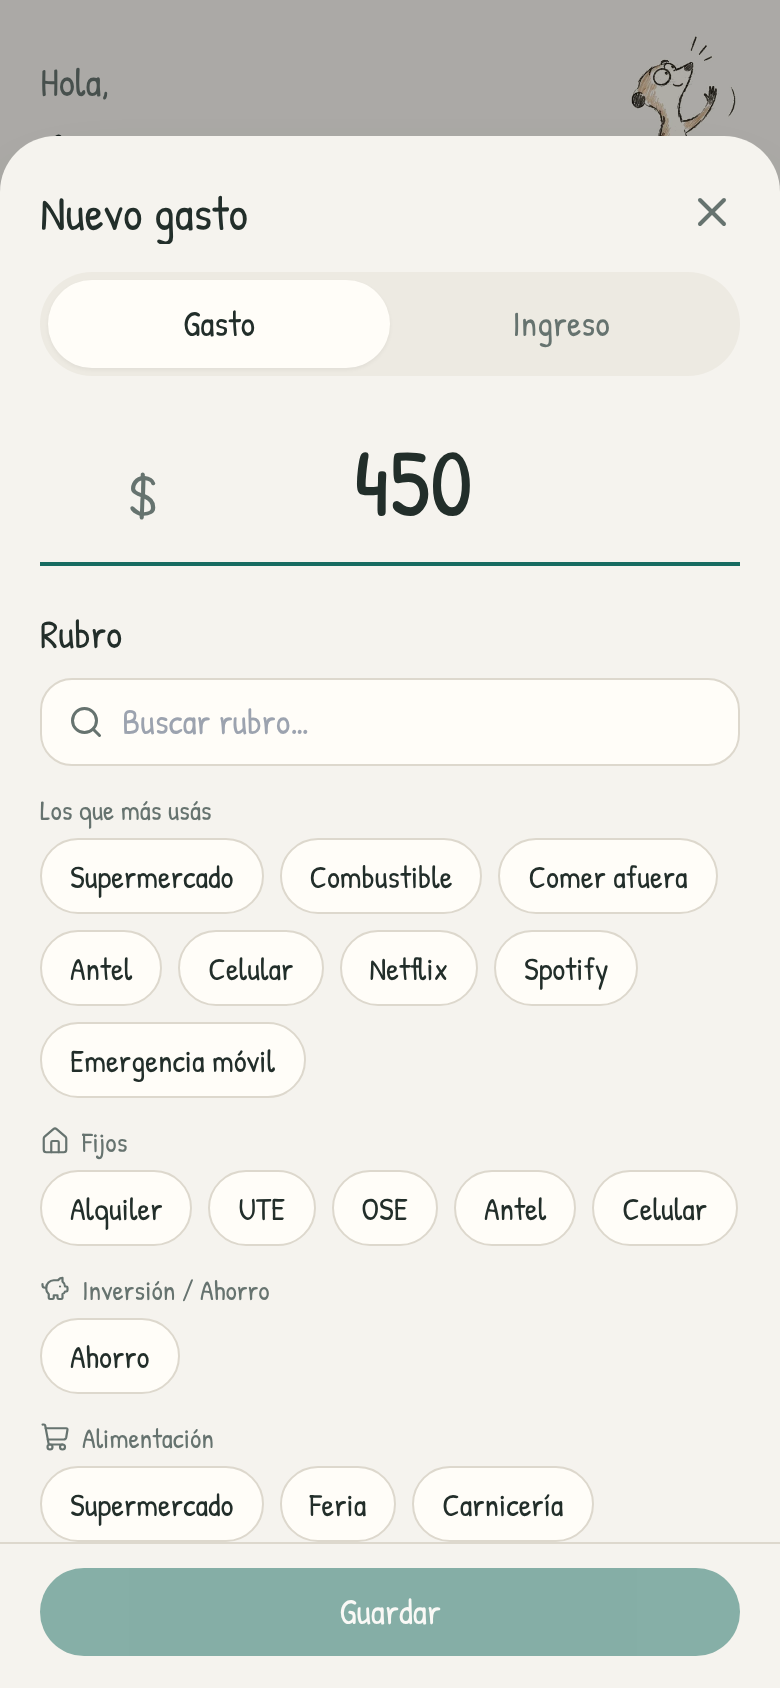
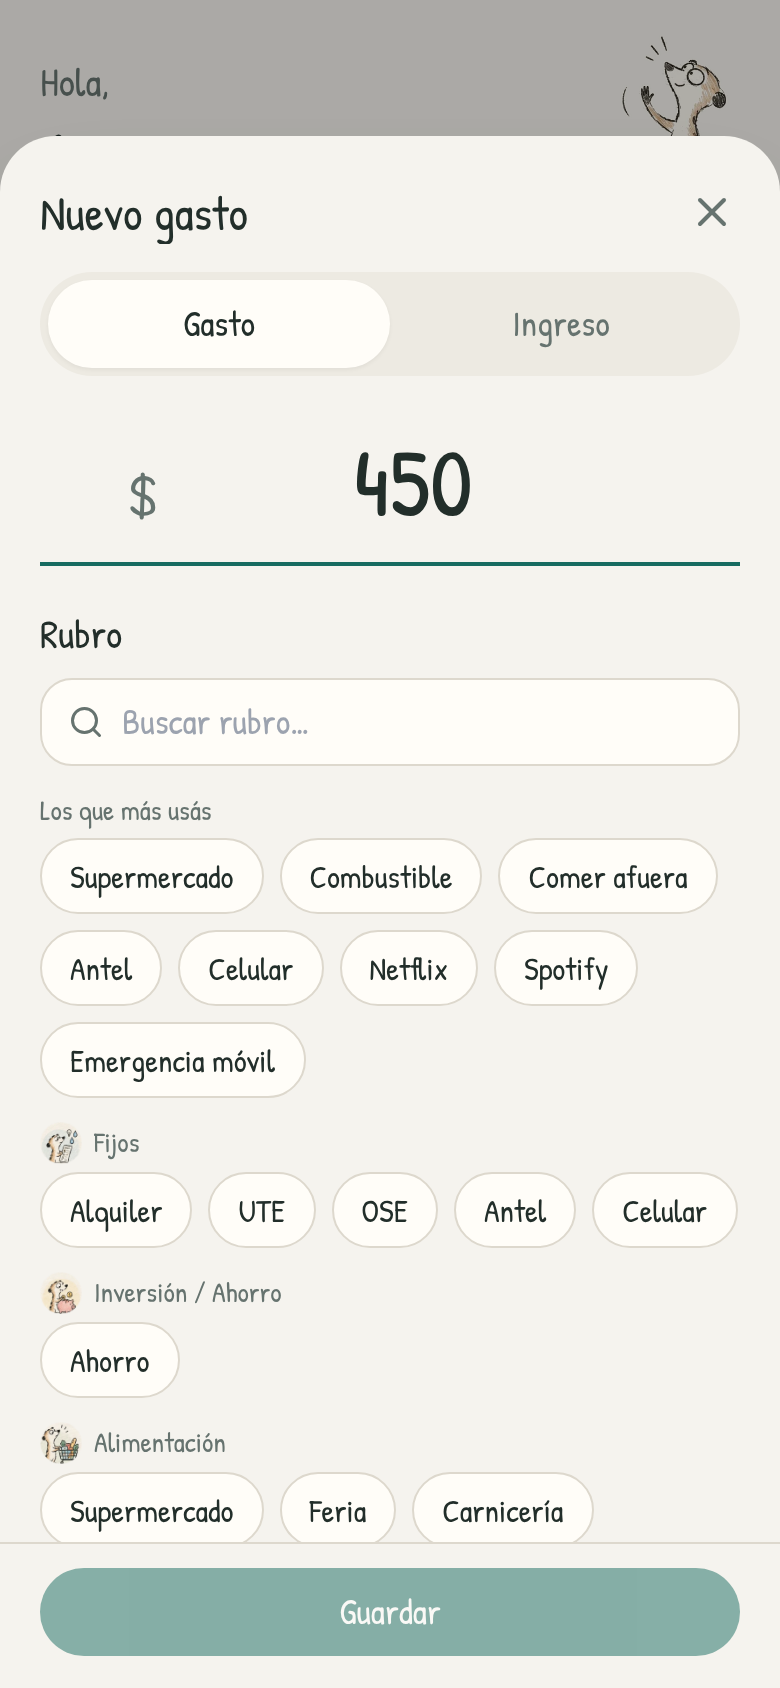
Ilustraciones del suricata para las categorías; algunos miran para el otro lado
- 28 ilustraciones redondas (súper, servicios, auto, salud, mascotas…) como ícono de cada categoría,
  con un aro del color de la categoría; se eligen al editarla
- Las categorías nuevas, las sugeridas y las de planillas importadas toman la ilustración que corresponde;
  las que tenían íconos de línea pasan solas a la ilustración equivalente
- Algunas ilustraciones espejadas y los suricatas a la derecha de un texto miran hacia el texto

Claude-Session: https://claude.ai/code/session_01Qseq1gkBETEkqbL7BodUmT

diff --git a/src/domain/template.ts b/src/domain/template.ts
@@ -35,61 +35,61 @@ interface TemplateCategory {
  * borrar o agregar en Más → Categorías y rubros. Las palabras clave asignan las facturas solas.
  */
 const TEMPLATE: TemplateCategory[] = [
-  { code: 'A', name: 'Alimentación', icon: 'cart', rubros: [
+  { code: 'A', name: 'Alimentación', icon: 'm:super', rubros: [
     ['Supermercado', ['super', 'tienda inglesa', 'disco', 'devoto', 'geant', 'tata', 'macromercado', 'el dorado', 'frigo', 'almacen', 'kinko']],
     ['Feria', ['feria', 'verduleria', 'fruteria']],
     ['Carnicería', ['carniceria', 'carne', 'pollo']],
     ['Panadería', ['panaderia', 'pan ', 'confiteria']],
   ] },
-  { code: 'F', name: 'Fijos', icon: 'home', rubros: [
+  { code: 'F', name: 'Fijos', icon: 'm:servicios', rubros: [
     ['Alquiler', ['alquiler', 'inmobiliaria', 'gastos comunes']],
     ['Luz', ['ute', 'energia electrica']],
     ['Agua', ['ose', 'agua']],
     ['Teléfono e internet', ['antel', 'claro', 'movistar', 'fibra']],
   ] },
-  { code: 'T', name: 'Transporte', icon: 'car', rubros: [
+  { code: 'T', name: 'Transporte', icon: 'm:mant-auto', rubros: [
     ['Combustible', ['ancap', 'axion', 'petrobras', 'nafta', 'gasoil', 'combustible', 'disa']],
     ['Mantenimiento del auto', ['taller', 'service', 'neumatico', 'gomeria', 'lavadero']],
     ['Seguro y patente', ['seguro', 'patente', 'sucive', 'bse', 'mapfre', 'sura', 'porto']],
     ['Ómnibus y taxi', ['cutcsa', 'stm', 'uber', 'cabify', 'taxi']],
   ] },
-  { code: 'S', name: 'Salud', icon: 'heart', rubros: [
+  { code: 'S', name: 'Salud', icon: 'm:salud', rubros: [
     ['Mutualista y emergencia', ['mutualista', 'emergencia', 'semm', 'ucm', 'sms', 'medica uruguaya', 'casmu', 'smi', 'cosem']],
     ['Farmacia', ['farmacia', 'farmashop', 'san roque', 'medicamento']],
   ] },
-  { code: 'E', name: 'Educación', icon: 'graduation', rubros: [
+  { code: 'E', name: 'Educación', icon: 'm:educacion', rubros: [
     ['Colegio y cursos', ['colegio', 'escuela', 'liceo', 'universidad', 'curso', 'cuota']],
     ['Librería', ['libreria', 'papeleria', 'cuaderno']],
     ['Club y deportes', ['club', 'gimnasio', 'gym']],
   ] },
-  { code: 'H', name: 'Limpieza', icon: 'sparkles', rubros: [
+  { code: 'H', name: 'Limpieza', icon: 'm:limpieza', rubros: [
     ['Artículos de limpieza', ['limpieza', 'detergente', 'lavandina', 'jabon']],
   ] },
-  { code: 'M', name: 'Mantenimiento', icon: 'wrench', rubros: [
+  { code: 'M', name: 'Mantenimiento', icon: 'm:mant-casa', rubros: [
     ['Arreglos de la casa', ['ferreteria', 'sodimac', 'pintureria', 'barraca', 'plomero', 'electricista']],
   ] },
-  { code: 'B', name: 'Bienes de uso', icon: 'sofa', rubros: [
+  { code: 'B', name: 'Bienes de uso', icon: 'm:tecnologia', rubros: [
     ['Compras online', ['mercado libre', 'mercadolibre', 'amazon', 'temu', 'shein']],
     ['Electrodomésticos y muebles', ['electrodomestico', 'mueble', 'motociclo', 'divino']],
   ] },
-  { code: 'V', name: 'Vestimenta', icon: 'shirt', rubros: [
+  { code: 'V', name: 'Vestimenta', icon: 'm:ropa', rubros: [
     ['Ropa y calzado', ['ropa', 'zapateria', 'calzado', 'zara', 'indian', 'renner']],
   ] },
-  { code: 'ST', name: 'Suscripciones', icon: 'tv', rubros: [
+  { code: 'ST', name: 'Suscripciones', icon: 'm:entretenimiento', rubros: [
     ['Streaming', ['netflix', 'spotify', 'hbo', 'max', 'disney', 'prime video', 'youtube', 'apple']],
   ] },
-  { code: 'X', name: 'Salidas y extras', icon: 'utensils', rubros: [
+  { code: 'X', name: 'Salidas y extras', icon: 'm:salidas', rubros: [
     ['Comer afuera', ['restaurante', 'restaurant', 'parrilla', 'pizzeria', 'cafe', 'bar ', 'pedidosya', 'rappi']],
     ['Paseos y viajes', ['hotel', 'pasaje', 'booking', 'airbnb', 'cine', 'entrada']],
     ['Regalos', ['regalo', 'jugueteria']],
   ] },
-  { code: 'O', name: 'Otros', icon: 'tag', rubros: [
+  { code: 'O', name: 'Otros', icon: 'm:otros', rubros: [
     ['Varios', []],
   ] },
-  { code: 'I', name: 'Ahorro e inversión', icon: 'piggy', savings: true, rubros: [
+  { code: 'I', name: 'Ahorro e inversión', icon: 'm:ahorro', savings: true, rubros: [
     ['Ahorro', ['ahorro', 'plazo fijo', 'inversion']],
   ] },
-  { code: 'IN', name: 'Ingresos', icon: 'coins', kind: 'ingreso', rubros: [
+  { code: 'IN', name: 'Ingresos', icon: 'm:inversiones', kind: 'ingreso', rubros: [
     ['Sueldo', ['sueldo', 'salario', 'haberes']],
     ['Otros ingresos', []],
   ] },
@@ -129,8 +129,31 @@ export function emptyData(): Data {
   return { version: 1, categories: [], rubros: [], movements: [], invoices: [], goals: [], settings: defaultSettings() };
 }
 
-/** Íconos que se pueden elegir para una categoría o una meta */
+/**
+ * Ilustraciones del suricata para las categorías (src/assets/suricata/cat). En los datos van como «m:nombre».
+ */
+export const ART: [string, string][] = [
+  ['super', 'Compras del súper'], ['comida', 'Comida'], ['restaurantes', 'Restaurantes'], ['salidas', 'Salidas y ocio'],
+  ['servicios', 'Servicios'], ['vivienda', 'Vivienda / alquiler'], ['mant-casa', 'Mantenimiento de la casa'], ['hogar', 'Hogar y decoración'],
+  ['limpieza', 'Limpieza'], ['jardin', 'Jardín'], ['mant-auto', 'Auto'], ['viajes', 'Viajes'], ['salud', 'Salud'], ['deporte', 'Deporte'],
+  ['educacion', 'Educación'], ['libros', 'Libros y cultura'], ['ropa', 'Ropa'], ['regalos', 'Regalos'], ['entretenimiento', 'Entretenimiento'],
+  ['telefonia', 'Telefonía e internet'], ['tecnologia', 'Tecnología'], ['mascotas', 'Mascotas'], ['familia', 'Hijos / familia'],
+  ['seguros', 'Seguros'], ['ahorro', 'Ahorro'], ['inversiones', 'Inversiones'], ['otros', 'Otros'], ['imprevistos', 'Imprevistos'],
+];
+
+/** Íconos de línea de versiones anteriores → ilustración equivalente (los que no tienen equivalente quedan igual) */
+export const LEGACY_ICON_TO_ART: Record<string, string> = {
+  cart: 'm:super', home: 'm:vivienda', car: 'm:mant-auto', fuel: 'm:mant-auto', heart: 'm:salud', pill: 'm:salud',
+  graduation: 'm:educacion', book: 'm:libros', sparkles: 'm:limpieza', wrench: 'm:mant-casa', sofa: 'm:hogar', shirt: 'm:ropa',
+  tv: 'm:entretenimiento', music: 'm:entretenimiento', wifi: 'm:telefonia', phone: 'm:telefonia', zap: 'm:servicios',
+  droplet: 'm:servicios', flame: 'm:servicios', utensils: 'm:restaurantes', coffee: 'm:restaurantes', plane: 'm:viajes',
+  palm: 'm:viajes', gift: 'm:regalos', paw: 'm:mascotas', baby: 'm:familia', dumbbell: 'm:deporte', piggy: 'm:ahorro',
+  coins: 'm:inversiones', tag: 'm:otros',
+};
+
+/** Íconos que se pueden elegir para una categoría o una meta: primero las ilustraciones, después los de línea */
 export const ICON_CHOICES = [
+  ...ART.map(([n]) => `m:${n}`),
   'cart', 'home', 'car', 'fuel', 'bus', 'heart', 'pill', 'graduation', 'book', 'sparkles', 'wrench', 'sofa', 'shirt',
   'tv', 'music', 'wifi', 'phone', 'zap', 'droplet', 'flame', 'utensils', 'coffee', 'plane', 'palm', 'gift', 'hand-heart',
   'paw', 'baby', 'dumbbell', 'piggy', 'coins', 'briefcase', 'landmark', 'receipt', 'tag', 'target',

diff --git a/src/domain/importSheet.ts b/src/domain/importSheet.ts
@@ -35,25 +35,39 @@ export const norm = (s: string) =>
 export function guessIcon(name: string): string {
   const n = norm(name);
   const rules: [RegExp, string][] = [
-    [/aliment|comida|super|mercado/, 'cart'],
-    [/fijo|hogar|casa|alquiler|vivienda/, 'home'],
-    [/transporte|auto|nafta|combustible/, 'car'],
-    [/salud|medic|mutual/, 'heart'],
-    [/educa|estudio|colegio/, 'graduation'],
-    [/limpieza/, 'sparkles'],
-    [/manten|arreglo/, 'wrench'],
-    [/bienes|mueble|electro/, 'sofa'],
-    [/vestimenta|ropa/, 'shirt'],
-    [/internet|stream|suscrip/, 'tv'],
+    [/aliment|super|mercado/, 'm:super'],
+    [/comida|cocina/, 'm:comida'],
+    [/restaurant|comer afuera/, 'm:restaurantes'],
+    [/fijo|servicio|cuenta/, 'm:servicios'],
+    [/vivienda|alquiler/, 'm:vivienda'],
+    [/transporte|auto|nafta|combustible/, 'm:mant-auto'],
+    [/salud|medic|mutual/, 'm:salud'],
+    [/deporte|gimnasio|club/, 'm:deporte'],
+    [/educa|estudio|colegio/, 'm:educacion'],
+    [/libro|cultura/, 'm:libros'],
+    [/limpieza/, 'm:limpieza'],
+    [/manten|arreglo/, 'm:mant-casa'],
+    [/bienes|electro|tecnolog/, 'm:tecnologia'],
+    [/hogar|mueble|decora|casa/, 'm:hogar'],
+    [/jardin/, 'm:jardin'],
+    [/vestimenta|ropa/, 'm:ropa'],
+    [/internet|stream|suscrip|entreten/, 'm:entretenimiento'],
+    [/telefon|celular/, 'm:telefonia'],
     [/calefac|gas|lena/, 'flame'],
     [/diezmo|ofrenda|donac|ayuda/, 'hand-heart'],
-    [/ahorro|inversi/, 'piggy'],
-    [/extra|ocio|salida|paseo/, 'utensils'],
-    [/ingreso|sueldo|entrada/, 'coins'],
-    [/viaje|vacacion/, 'plane'],
-    [/mascota/, 'paw'],
+    [/ahorro/, 'm:ahorro'],
+    [/inversi/, 'm:ahorro'],
+    [/extra|ocio|salida|paseo/, 'm:salidas'],
+    [/ingreso|sueldo|entrada/, 'm:inversiones'],
+    [/viaje|vacacion/, 'm:viajes'],
+    [/mascota|veterin/, 'm:mascotas'],
+    [/hijo|familia|bebe/, 'm:familia'],
+    [/seguro/, 'm:seguros'],
+    [/regalo/, 'm:regalos'],
+    [/imprevist|emergencia/, 'm:imprevistos'],
+    [/otro|vario/, 'm:otros'],
   ];
-  return rules.find(([re]) => re.test(n))?.[1] ?? 'tag';
+  return rules.find(([re]) => re.test(n))?.[1] ?? 'm:otros';
 }
 
 /** Fecha de un encabezado: Date, número de serie de Excel (45597), «2024-11», «11/2024», «nov 2024» */

diff --git a/src/components/Icon.tsx b/src/components/Icon.tsx
@@ -12,13 +12,33 @@ const ICONS: Record<string, LucideIcon> = {
   briefcase: Briefcase, landmark: Landmark, receipt: Receipt, tag: Tag, target: Target, more: Ellipsis,
 };
 
+/** Ilustraciones del suricata (categorías): «m:super», «m:salud»… */
+const ART = import.meta.glob<string>('../assets/suricata/cat/*.webp', { eager: true, query: '?url', import: 'default' });
+const artUrl = (name: string) => (name.startsWith('m:') ? ART[`../assets/suricata/cat/${name.slice(2)}.webp`] : undefined);
+
 export function Icon({ name, size = 22, className, strokeWidth = 1.75 }: { name: string; size?: number; className?: string; strokeWidth?: number }) {
+  const art = artUrl(name);
+  // En renglones chicos la ilustración se ve un poco más grande que un ícono de línea, para que se distinga
+  if (art) return <img src={art} alt="" draggable={false} className={`inline-block shrink-0 ${className ?? ''}`} style={{ width: size * 1.4, height: size * 1.4 }} />;
   const C = ICONS[name] ?? Tag;
   return <C size={size} className={className} strokeWidth={strokeWidth} aria-hidden />;
 }
 
 /** Ícono de categoría en un círculo con su color suave de fondo (como en el boceto) */
 export function CategoryBubble({ icon, color, size = 44 }: { icon: string; color: string; size?: number }) {
+  const art = artUrl(icon);
+  if (art) {
+    // La ilustración ya trae su círculo de color; el aro fino es el color de la categoría (el de las gráficas)
+    return (
+      <img
+        src={art}
+        alt=""
+        draggable={false}
+        className="inline-block shrink-0 rounded-full"
+        style={{ width: size, height: size, boxShadow: `0 0 0 2px ${color}AA` }}
+      />
+    );
+  }
   return (
     <span
       className="inline-flex shrink-0 items-center justify-center rounded-full text-ink"

diff --git a/src/lib/db.ts b/src/lib/db.ts
@@ -1,6 +1,6 @@
 /** Todo se guarda en el teléfono (IndexedDB): los datos en una clave y cada archivo de factura en la suya. */
 import { createStore, del, get, set } from 'idb-keyval';
-import { emptyData } from '../domain/template';
+import { emptyData, LEGACY_ICON_TO_ART } from '../domain/template';
 import type { Data } from '../domain/types';
 
 const store = createStore('pengar', 'kv');
@@ -10,7 +10,9 @@ export async function loadData(): Promise<Data | null> {
   if (!d) return null;
   // Completa campos nuevos si los datos son de una versión anterior
   const base = emptyData();
-  return { ...base, ...d, settings: { ...base.settings, ...d.settings, ai: { ...base.settings.ai, ...d.settings?.ai }, currency: { ...base.settings.currency, ...d.settings?.currency } } };
+  // Las categorías con íconos de línea pasan a las ilustraciones del suricata
+  const categories = (d.categories ?? []).map((c) => (LEGACY_ICON_TO_ART[c.icon] ? { ...c, icon: LEGACY_ICON_TO_ART[c.icon] } : c));
+  return { ...base, ...d, categories, settings: { ...base.settings, ...d.settings, ai: { ...base.settings.ai, ...d.settings?.ai }, currency: { ...base.settings.currency, ...d.settings?.currency } } };
 }
 
 export const saveData = (d: Data) => set('data', d, store);

diff --git a/src/components/Suricata.tsx b/src/components/Suricata.tsx
@@ -10,10 +10,11 @@ export type Pose =
   | 'cara-normal' | 'cara-feliz' | 'cara-sorprendido' | 'cara-pensando' | 'cara-preocupado' | 'cara-decidido'
   | 'cara-triste' | 'cara-entusiasmado' | 'cara-curioso';
 
-export function Suricata({ pose, size = 120, className = '', alt = '' }: { pose: Pose; size?: number; className?: string; alt?: string }) {
+/** `flip`: que mire para el otro lado (hacia la izquierda) */
+export function Suricata({ pose, size = 120, className = '', alt = '', flip = false }: { pose: Pose; size?: number; className?: string; alt?: string; flip?: boolean }) {
   const src = files[`../assets/suricata/${pose}.webp`];
   if (!src) return null;
-  return <img src={src} alt={alt} draggable={false} className={`pointer-events-none select-none object-contain ${className}`} style={{ height: size, width: 'auto' }} />;
+  return <img src={src} alt={alt} draggable={false} className={`pointer-events-none select-none object-contain ${className}`} style={{ height: size, width: 'auto', transform: flip ? 'scaleX(-1)' : undefined }} />;
 }
 
 /** Estado vacío: el suricata con un texto debajo */

diff --git a/src/screens/Home.tsx b/src/screens/Home.tsx
@@ -46,7 +46,7 @@ export function Home({ onAdd, onScan, onEdit, onGo }: {
           <div className="text-xl text-muted">Hola,</div>
           <h1 className="text-4xl leading-tight">{data.settings.name || 'de nuevo'}</h1>
         </div>
-        <Suricata pose="saludando" size={92} />
+        <Suricata pose="saludando" size={92} flip />
       </header>
 
       <section className="card relative overflow-hidden p-5">
@@ -61,7 +61,7 @@ export function Home({ onAdd, onScan, onEdit, onGo }: {
             {formatPct(Math.abs(change))} {change > 0 ? 'más' : 'menos'} de gastos que el mes anterior
           </div>
         )}
-        <Suricata pose={mood} size={104} className="absolute -bottom-1 right-2" />
+        <Suricata pose={mood} size={104} flip className="absolute -bottom-1 right-2" />
       </section>
 
       <section className="grid grid-cols-4 gap-2 px-1">

diff --git a/src/screens/Budget.tsx b/src/screens/Budget.tsx
@@ -23,7 +23,7 @@ export function Budget({ onBack }: { onBack: () => void }) {
       <div className="space-y-4 px-4 pb-10">
         <div className="flex items-center gap-3 px-1">
           <p className="flex-1 text-muted">Cuánto pensás gastar por mes en cada categoría. Se compara con lo real en Estadísticas → Mes.</p>
-          <Suricata pose="organizando" size={90} />
+          <Suricata pose="organizando" size={90} flip />
         </div>
         <div className="grid grid-cols-2 gap-3">
           <div className="card px-4 py-3"><div className="text-[15px] text-muted">Gastos sin ahorro</div><div className="text-2xl">{money(noSavings)}</div></div>

diff --git a/src/screens/Goals.tsx b/src/screens/Goals.tsx
@@ -61,7 +61,7 @@ export function Goals({ onBack }: { onBack: () => void }) {
 
 function GoalSheet({ value, onClose }: { value: Goal | 'new'; onClose: () => void }) {
   const { upsertGoal, deleteGoal } = useStore();
-  const [g, setG] = useState<Goal>(value === 'new' ? { id: newId('g'), name: '', icon: 'palm', target: 0, saved: 0 } : value);
+  const [g, setG] = useState<Goal>(value === 'new' ? { id: newId('g'), name: '', icon: 'm:viajes', target: 0, saved: 0 } : value);
   const [target, setTarget] = useState(g.target ? String(g.target) : '');
   const [saved, setSaved] = useState(g.saved ? String(g.saved) : '');
   const t = parseAmount(target) ?? 0;

diff --git a/src/screens/Categories.tsx b/src/screens/Categories.tsx
@@ -75,7 +75,7 @@ export function Categories({ onBack }: { onBack: () => void }) {
           Las <b>categorías</b> agrupan (Alimentación, Transporte…) y tienen presupuesto. Los <b>rubros</b> son lo que elegís al anotar (Feria, UTE, Netflix…).
           Tocá el ícono para cambiar nombre, color o ícono.
         </p>
-        <Suricata pose="compras" size={100} />
+        <Suricata pose="compras" size={100} flip />
         </div>
         {section('gasto', 'Gastos')}
         {section('ingreso', 'Ingresos')}

diff --git a/src/screens/Help.tsx b/src/screens/Help.tsx
@@ -16,7 +16,7 @@ export function Help({ onBack }: { onBack: () => void }) {
     <div>
       <PageHeader title="Cómo se usa" onBack={onBack} />
       <div className="space-y-3 px-4 pb-10">
-        <div className="flex justify-center"><Suricata pose="cara-curioso" size={120} /></div>
+        <div className="flex justify-center"><Suricata pose="cara-curioso" size={120} flip /></div>
         {TOPICS.map(([t, body]) => (
           <section key={t} className="card p-4">
             <h2 className="text-xl">{t}</h2>

diff --git a/src/screens/Welcome.tsx b/src/screens/Welcome.tsx
@@ -51,7 +51,7 @@ export function Welcome() {
       <button className="btn-ghost -ml-4" onClick={() => setStep('hola')}>‹ Volver</button>
       <div className="mt-2 flex items-end justify-between">
         <h1 className="text-4xl">¡Hola!</h1>
-        <Suricata pose="saludando" size={110} />
+        <Suricata pose="saludando" size={110} flip />
       </div>
       <label className="mt-6 block">
         <span className="label">¿Cómo te llamás?</span>

diff --git a/scripts/suricata.py b/scripts/suricata.py
@@ -4,7 +4,7 @@ src/assets/suricata. El interior de la silueta se rellena con papel crema para q
 Uso: python3 scripts/suricata.py   (necesita Pillow y numpy)
 """
 import sys
-from PIL import Image, ImageFilter, ImageChops
+from PIL import Image, ImageDraw, ImageFilter, ImageChops
 import numpy as np
 
 import os
@@ -71,7 +71,7 @@ boxes = {
     'saludando': (255, 60, 470, 400), 'contento': (470, 50, 680, 400), 'ahorrando': (690, 120, 900, 400),
     'pensando': (895, 40, 1085, 400), 'calculadora': (1090, 90, 1270, 400), 'lista': (1285, 90, 1515, 400),
     'organizando': (20, 470, 245, 690), 'analizando': (245, 500, 475, 690), 'metas': (465, 455, 715, 695),
-    'compras': (725, 480, 900, 695), 'transportes': (930, 480, 1110, 695), 'casa': (1130, 470, 1300, 695),
+    'compras': (725, 480, 888, 695), 'transportes': (930, 480, 1110, 695), 'casa': (1130, 470, 1300, 695),
     'celebrando': (1320, 430, 1520, 695),
 }
 for name, box in boxes.items():
@@ -85,3 +85,30 @@ for i, name in enumerate(faces):
 
 main = unpaper(Image.open(IMG + 'suricata-principal.webp').crop((230, 110, 980, 1160)))
 save(main, 'principal', 640)
+
+# --- Ilustraciones de categorías: cada una es un círculo de color con el suricata ------------------------
+TILES = [
+    ['mant-casa', 'comida', 'super', 'mant-auto', 'educacion', 'regalos', 'limpieza'],
+    ['salud', 'deporte', 'viajes', 'entretenimiento', 'restaurantes', 'telefonia', 'ropa'],
+    ['ahorro', 'servicios', 'libros', 'mascotas', 'vivienda', 'seguros', 'jardin'],
+    ['tecnologia', 'hogar', 'salidas', 'familia', 'inversiones', 'otros', 'imprevistos'],
+]
+cats = Image.open(IMG + 'suricata-categorias.webp').convert('RGB')
+R = 100
+# Espejadas, para que no miren todas para el mismo lado (las que tienen letras o el $ quedan como están)
+FLIP = {'comida', 'mant-auto', 'regalos', 'deporte', 'restaurantes', 'ropa', 'libros', 'mascotas', 'jardin', 'salidas', 'otros', 'vivienda', 'seguros'}
+os.makedirs(os.path.join(OUT, 'cat'), exist_ok=True)
+for r, row in enumerate(TILES):
+    cy = [143, 398, 632, 868][r]
+    for c, name in enumerate(row):
+        cx = 117 + c * 217
+        tile = cats.crop((cx - R, cy - R, cx + R, cy + R)).convert('RGBA')
+        # Recorte redondo con el borde suave (queda como una medalla sobre el papel)
+        mask = Image.new('L', (R * 8, R * 8), 0)
+        ImageDraw.Draw(mask).ellipse((8, 8, R * 8 - 8, R * 8 - 8), fill=255)
+        mask = mask.resize((R * 2, R * 2), Image.LANCZOS).filter(ImageFilter.GaussianBlur(1))
+        tile.putalpha(mask)
+        if name in FLIP:
+            tile = tile.transpose(Image.FLIP_LEFT_RIGHT)
+        tile.resize((192, 192), Image.LANCZOS).save(os.path.join(OUT, 'cat', f'{name}.webp'), 'WEBP', quality=86, method=6)
+print('categorías', sum(len(r) for r in TILES))
